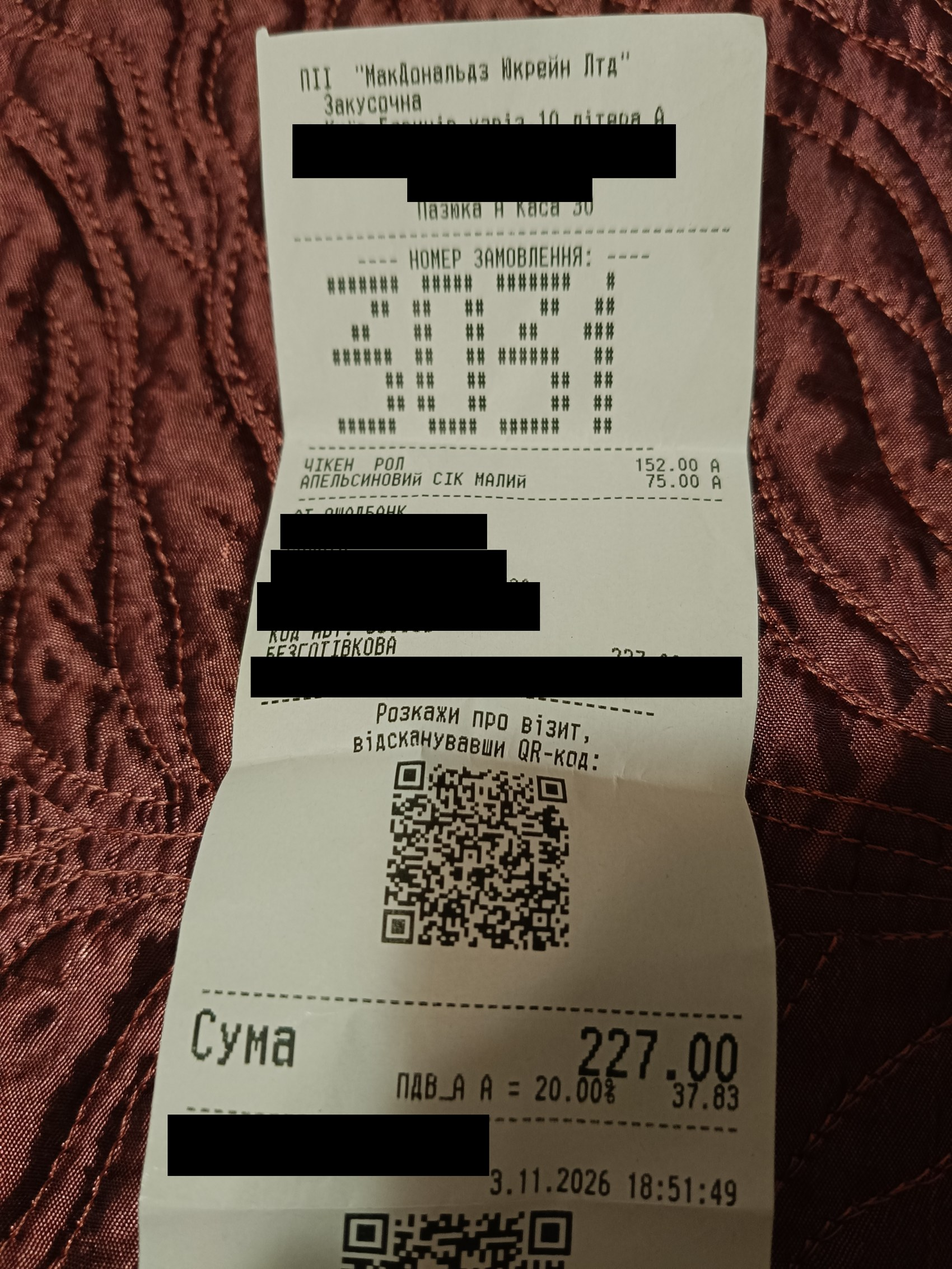
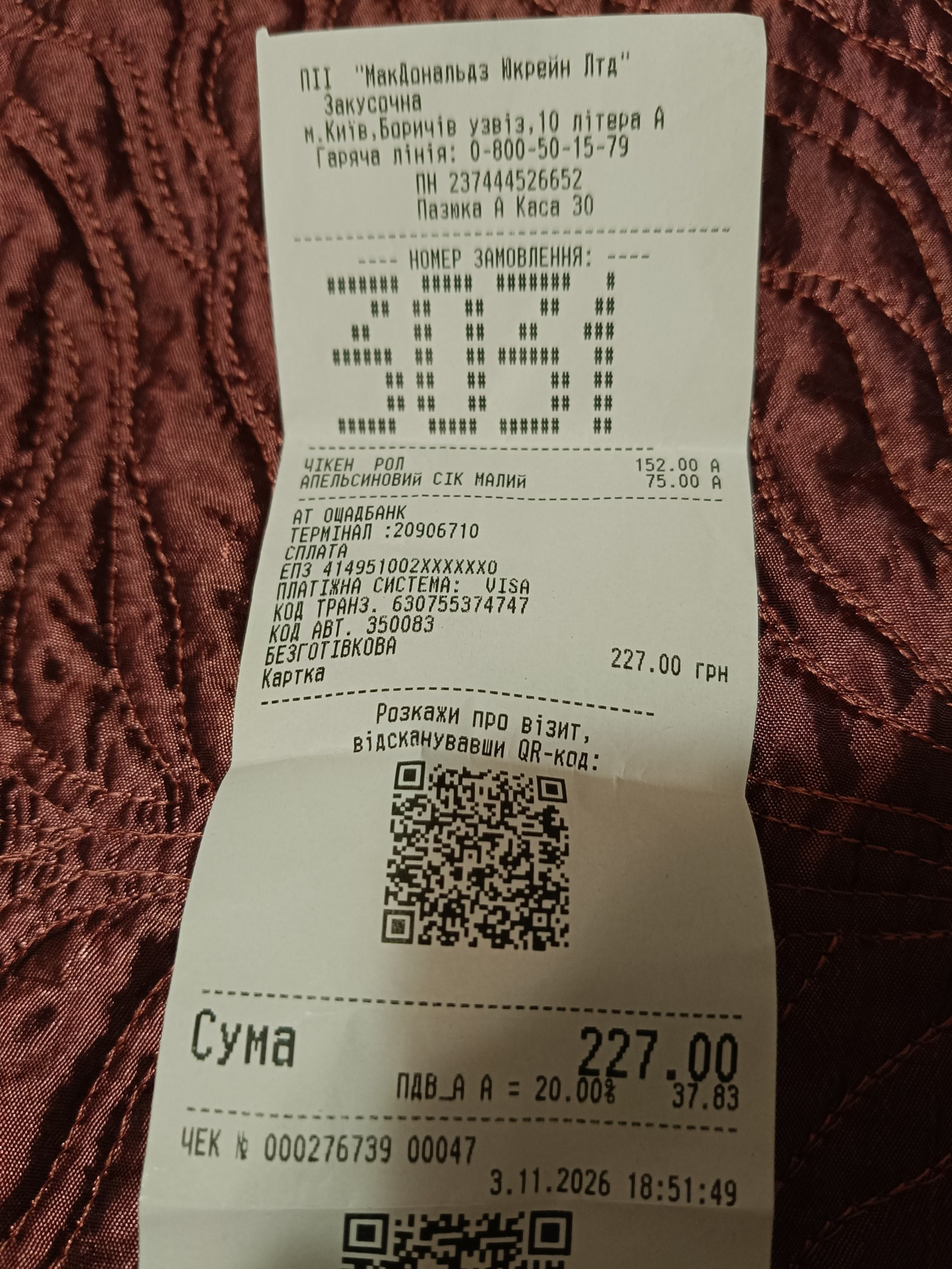
084-090: відновлено повні фото без зафарбовування та повні lines_draft
Claude-Session: https://claude.ai/code/session_01GiBntQj9nFP5C1iCsz19Wk

Changed region(s): [[0.2494, 0.4014, 0.7794, 0.5558], [0.2806, 0.0926, 0.7171, 0.1853], [0.1559, 0.8646, 0.53, 0.9263]]

diff --git a/README.md b/README.md
@@ -52,6 +52,6 @@
 - Розмір: `paddle/to_fp16.py` зберігає ваги в fp16 (Cast у fp32 при завантаженні): модель вдвічі менша (det 9,9 -> 5,0 МБ, rec 7,8 -> 4,0 МБ). На 750 рядках CER той самий (2,4
 ## Додано 04.11.2026 (084-090)
 7 чеків з Google Диска, різні магазини: зоомагазин MasterZoo (084), закусочна McDonald's (085), «Вигідна покупка» (086), пекарня «Київхліб» (087-090).
-- Фото повернуто вертикально, рядки з даними картки, терміналу й номерами зафарбовано (перевірено повторним розпізнаванням: лишились лише штрихкоди товарів).
+- Фото повернуто вертикально, нічого не зафарбовано: чеки повні (за вимогою власника), `lines_draft.txt` містить усі рядки.
 - `lines_draft.txt` - текст із поточного розпізнавання БЕЗ перевірки, з помилками. Для навчання не використовувати, доки його не виправлено вручну й не перейменовано в `lines.txt`. Інші ~40 фото з Диска (більшість - та сама пекарня) свідомо не додано.
 - Пропущено «Фору» (чек 36/1021/745): це чек 064.
